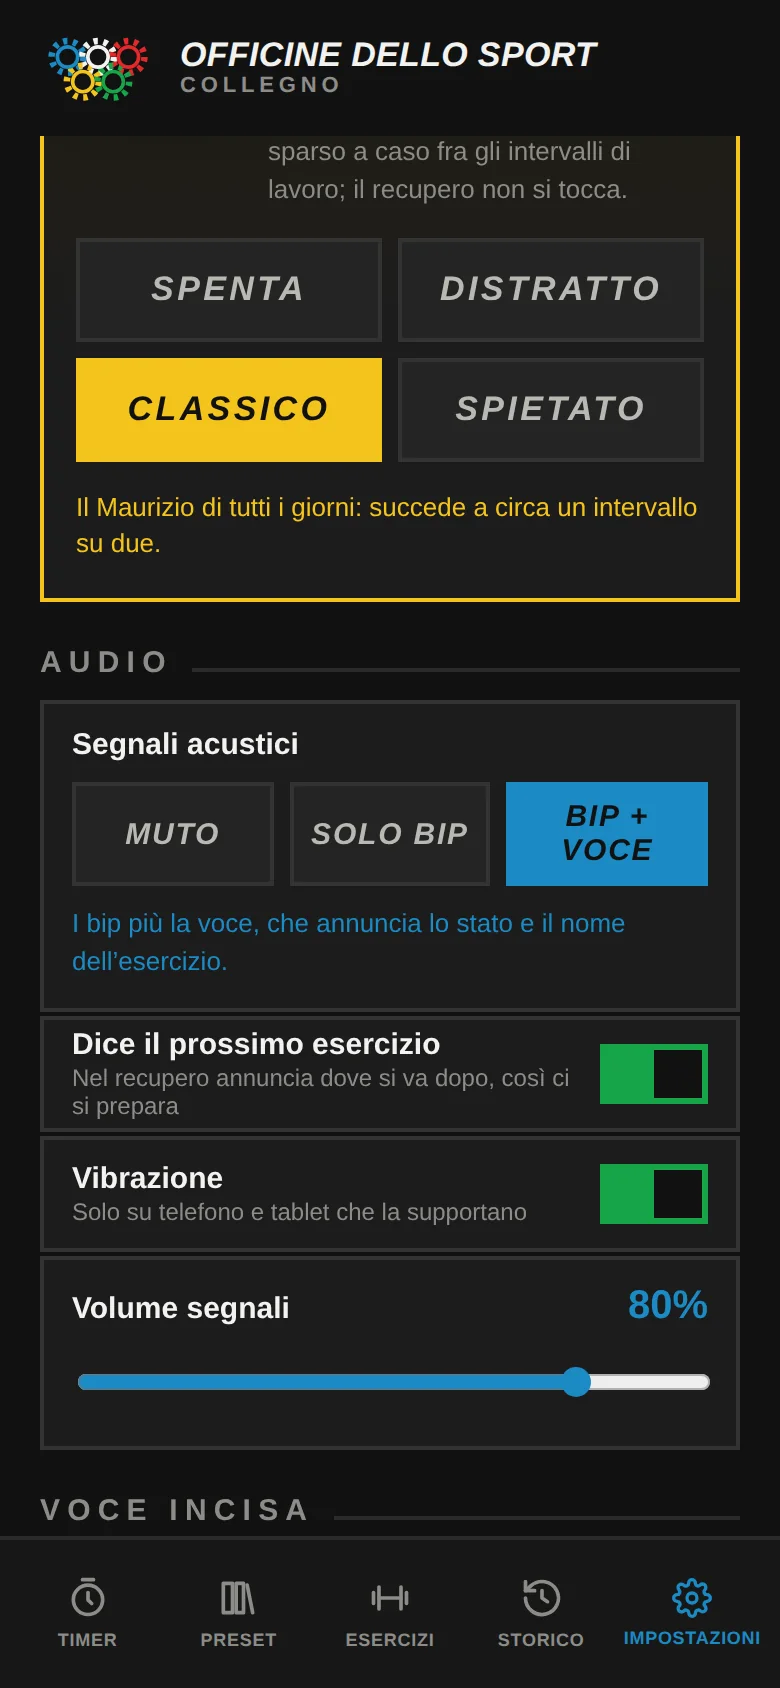
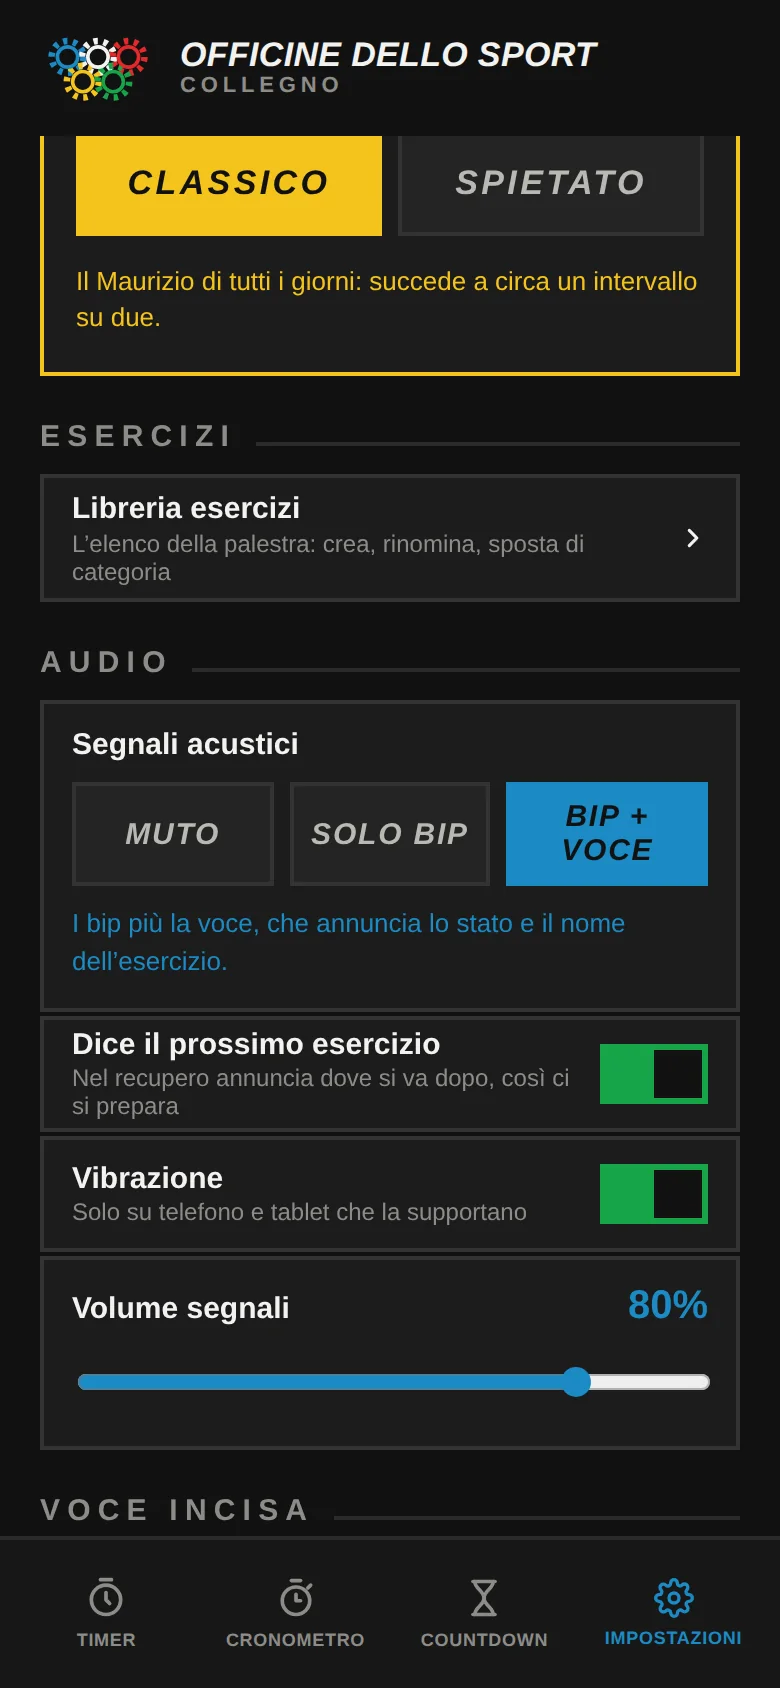
Riallinea la guida alle quattro schede
La ristrutturazione della barra ha reso falsa metà della guida: parlava di
cinque schede, di una scheda PRESET, di una scheda ESERCIZI e di una
striscia «al volo» in cima alla lista dei timer. Riscritte le parti che non
erano più vere e rifatti gli undici scatti che mostravano la barra vecchia.

Cosa dice adesso: quattro schede e perché sono quattro; le tre cose che non
sono schede di proposito — gli schemi come primo passo del nuovo timer, la
libreria esercizi e lo storico nelle impostazioni; il cronometro e il
countdown come schede separate, con il fatto che continuano a contare
mentre guardi un'altra scheda; e che la guida stessa è dentro l'app.

Corretto anche un difetto della guida trovato misurando: sul telefono la
pagina scorreva di lato di 405 px. La colonna della griglia si allargava
fino alla larghezza minima della tabella più larga — 520 px — e si portava
dietro tutto, indice compreso. Con `minmax(0, 1fr)` le tabelle scorrono nel
loro riquadro e il resto resta dentro lo schermo: verificato, il documento
è largo esattamente quanto la finestra.

Claude-Session: https://claude.ai/code/session_01JooCXtaGijCA4t1W81KEnw

diff --git a/public/guida.html b/public/guida.html
@@ -95,6 +95,11 @@
 
   .corpo {
     display: grid;
+    /* `minmax(0, …)` e non `1fr`: senza, la colonna si allarga fino alla
+       larghezza minima della tabella più larga — 520 px — e si porta dietro
+       tutta la pagina, indice compreso. Con questo le tabelle scorrono nel
+       loro riquadro e il resto resta dentro lo schermo. */
+    grid-template-columns: minmax(0, 1fr);
     gap: 48px;
     align-items: start;
   }
@@ -323,6 +328,8 @@
   }
 </style>
 
+</head>
+<body>
 <style>
   .ritorno {
     position: sticky; top: 0; z-index: 10;
@@ -336,8 +343,6 @@
   .ritorno:hover { color: #1b8ac4; }
   @media print { .ritorno { display: none; } }
 </style>
-</head>
-<body>
 <a class="ritorno" href="./">‹ TORNA ALL'APP</a>
 <div class="guscio">
 
@@ -368,8 +373,8 @@
       <div class="indice-titolo">INDICE</div>
       <ol>
         <li><a href="#cose">Cos'è e dove vive</a></li>
-        <li><a href="#schede">Le cinque schede</a></li>
-        <li><a href="#alvolo-tools">Cronometro e minuti al volo</a></li>
+        <li><a href="#schede">Le quattro schede</a></li>
+        <li><a href="#alvolo-tools">Cronometro e countdown</a></li>
         <li><a href="#schemi">I cinque schemi</a></li>
         <li><a href="#editor">Costruire un timer</a></li>
         <li><a href="#esercizi">La libreria esercizi</a></li>
@@ -415,6 +420,10 @@
             di numeri in più — e la prima apertura mette in cache tutto il necessario: da lì funziona
             anche con il telefono in modalità aereo.
           </p>
+          <p>
+            <strong>Anche questa guida è dentro l'app</strong>, in fondo alle impostazioni: si apre senza rete
+            e vale per chiunque abbia l'indirizzo, senza dover mandare niente.
+          </p>
         </div>
 
         <p>
@@ -430,23 +439,18 @@
       <figcaption>La scheda TIMER appena installata, con i sei timer già pronti.</figcaption>
     </figure>
     <figure>
-      <img src="guida/preset.webp" alt="La scheda PRESET con i sei schemi classici" width="820" height="1688" loading="lazy">
-      <figcaption>PRESET: sei schemi classici che aprono l’editor con i valori già dentro.</figcaption>
+      <img src="guida/scheda-aperta.webp" alt="Una scheda timer aperta con MODIFICA, DUPLICA, INVIA e il cestino" width="820" height="1688" loading="lazy">
+      <figcaption>Toccando una scheda compaiono le sue azioni: modifica, duplica, invia, elimina.</figcaption>
     </figure>
         </div>
       </section>
 
       <section id="schede">
         <div class="occhiello">ORIENTARSI</div>
-        <h2>Le cinque schede</h2>
+        <h2>Le quattro schede</h2>
         <p>
-          In fondo allo schermo (di lato, sul computer) ci sono cinque voci. Sono tutta la navigazione
-          che l'app ha.
-        </p>
-        <p>
-          Lo <strong>storico</strong> degli allenamenti non è più una di queste: in palestra non lo guarda
-          nessuno, e quel posto serviva agli attrezzi. Continua a registrare ogni allenamento portato a
-          termine, entra nelle copie di sicurezza, e si apre da IMPOSTAZIONI in fondo.
+          In fondo allo schermo (di lato, sul computer) ci sono quattro voci. Sono tutta la navigazione
+          che l'app ha, e sono quattro perché in una lezione si entra solo lì.
         </p>
 
         <div class="tabella-scorre">
@@ -456,47 +460,60 @@
             </thead>
             <tbody>
               <tr><td class="nome-schema">TIMER</td><td>I tuoi allenamenti. Da qui si avvia, si modifica, si duplica, si manda, si elimina.</td></tr>
-              <tr><td class="nome-schema">PRESET</td><td>Sei schemi classici già impostati: Tabata, HIIT 40/20, EMOM, AMRAP, For Time, Circuito. Toccarne uno apre l'editor con i valori già dentro.</td></tr>
-              <tr><td class="nome-schema">ESERCIZI</td><td>Il catalogo della palestra: si crea, si rinomina, si sposta di categoria, si cancella.</td></tr>
-              <tr><td class="nome-schema">AL VOLO</td><td>Il cronometro e il conto alla rovescia: i due attrezzi che non chiedono di scrivere un allenamento.</td></tr>
-              <tr><td class="nome-schema">IMPOSTAZIONI</td><td>Maurizio, suoni, voce, schermo, copie di sicurezza, storico, versione, e questa guida.</td></tr>
+              <tr><td class="nome-schema">CRONOMETRO</td><td>Conta in salita, con i centesimi e i giri. Per un randori, una navetta, un test.</td></tr>
+              <tr><td class="nome-schema">COUNTDOWN</td><td>Sei durate che partono al tocco, per «novanta secondi e si riparte».</td></tr>
+              <tr><td class="nome-schema">IMPOSTAZIONI</td><td>Maurizio, suoni, voce, schermo, libreria esercizi, copie di sicurezza, storico, versione, e questa guida.</td></tr>
             </tbody>
           </table>
+        </div>
+
+        <h3>Le tre cose che non sono schede</h3>
+        <p>
+          Tre parti dell'app non stanno nella barra, di proposito: sono cose che si fanno una volta ogni
+          tanto, non a lezione iniziata.
+        </p>
+        <ul>
+          <li><strong>Gli schemi</strong> (Tabata, HIIT, EMOM, AMRAP, For Time, Circuito) non sono una destinazione ma un punto di partenza: compaiono come prima schermata dopo <span class="tasto">+ NUOVO TIMER</span>, che è l'unico momento in cui servono.</li>
+          <li><strong>La libreria esercizi</strong> è la prima voce delle impostazioni: il catalogo si cura ogni tanto, non a ogni lezione.</li>
+          <li><strong>Lo storico</strong> è in fondo alle impostazioni. Continua a registrare ogni allenamento portato a termine e a viaggiare nelle copie di sicurezza, ma non occupa un posto in barra.</li>
+        </ul>
+
+        <div class="scatti">
+    <figure>
+      <img src="guida/impostazioni-dati.webp" alt="Le voci in fondo alle impostazioni: guida, storico, copie di sicurezza" width="820" height="1688" loading="lazy">
+      <figcaption>In fondo alle impostazioni: le copie di sicurezza, questa guida e lo storico.</figcaption>
+    </figure>
         </div>
       </section>
 
       <section id="alvolo-tools">
         <div class="occhiello">SENZA SCRIVERE NIENTE</div>
-        <h2>Cronometro e minuti al volo</h2>
+        <h2>Cronometro e countdown</h2>
         <p class="guida-intro">
-          La quarta scheda della barra. Due attrezzi che non chiedono di costruire un allenamento: si usano
-          a lezione iniziata, con venti persone ferme che aspettano, e lì nessuno si mette a compilare un
+          Due schede della barra, una per attrezzo. Non chiedono di costruire un allenamento: si usano a
+          lezione iniziata, con venti persone ferme che aspettano, e lì nessuno si mette a compilare un
           editor.
         </p>
 
-        <h3>I minuti al volo</h3>
+        <h3>Countdown</h3>
         <p>
           Sei durate — <strong>30″, 45″, 1′, 1′30, 2′, 3′</strong> — che partono al tocco. È la risposta a
           «novanta secondi e si riparte», che prima costringeva a creare e salvare un timer apposta.
         </p>
         <ul>
-          <li>La stessa fila di durate resta dentro la schermata: <strong>si cambia idea a conto già iniziato</strong>, perché la sala risponde meglio o peggio del previsto.</li>
+          <li>La freccia in alto a sinistra torna alle durate senza chiudere niente: <strong>si cambia idea a conto già iniziato</strong>, perché la sala risponde meglio o peggio del previsto.</li>
           <li>C'è il <span class="tasto">+30″</span> del timer grande, e <span class="tasto">RIFAI</span> per ripartire da capo.</li>
           <li>Allo zero la cornice passa da verde a <strong>rosso</strong>, con la scritta TEMPO e il segnale di fine: si vede da tutta la sala anche senza sentire niente.</li>
         </ul>
 
         <div class="scatti">
     <figure>
-      <img src="guida/alvolo-scheda.webp" alt="La scheda AL VOLO con le sei durate e il tasto del cronometro" width="820" height="1688" loading="lazy">
-      <figcaption>La scheda AL VOLO: sei durate da premere senza guardare, e il cronometro sotto.</figcaption>
+      <img src="guida/countdown-durate.webp" alt="La scheda COUNTDOWN con le sei durate" width="820" height="1688" loading="lazy">
+      <figcaption>Sei durate da premere senza guardare.</figcaption>
     </figure>
     <figure>
-      <img src="guida/al-volo.webp" alt="Conto alla rovescia al volo in corso" width="820" height="1688" loading="lazy">
-      <figcaption>Il conto in corsa. Sotto, la fila delle durate per cambiare idea senza uscire.</figcaption>
-    </figure>
-    <figure>
-      <img src="guida/al-volo-tempo.webp" alt="Conto alla rovescia arrivato a zero, cornice rossa e scritta TEMPO" width="820" height="1688" loading="lazy">
-      <figcaption>Allo zero: cornice rossa, TEMPO, e il tasto diventa RIFAI.</figcaption>
+      <img src="guida/countdown.webp" alt="Conto alla rovescia in corso, cornice verde" width="820" height="1688" loading="lazy">
+      <figcaption>Il conto in corsa: la freccia in alto torna alle durate, RIFAI ricomincia.</figcaption>
     </figure>
         </div>
 
@@ -519,11 +536,17 @@
     </figure>
         </div>
 
-        <div class="scheda">
+        <div class="scheda primo-passo">
+          <span class="etichetta-scheda">CONTINUANO A CONTARE</span>
           <p>
-            In tutti e due il tempo arriva dall'orologio e non da un contatore aumentato a ogni battito: è la
-            stessa regola del timer degli allenamenti, e serve perché un telefono che mette in pausa la pagina
-            non faccia restare indietro il conto.
+            Tutti e due <strong>non si fermano quando guardi un'altra scheda</strong>. Avvii un minuto e mezzo,
+            passi ai timer per controllare il prossimo blocco, e il conto continua: quando scade suona anche se
+            in quel momento sei altrove. È il motivo per cui lo avvii.
+          </p>
+          <p>
+            E il tempo arriva sempre dall'orologio, mai da un contatore aumentato a ogni battito: la stessa
+            regola del timer degli allenamenti, perché un telefono che mette in pausa la pagina non faccia
+            restare indietro il conto.
           </p>
         </div>
       </section>
@@ -590,8 +613,11 @@
         <div class="occhiello">COSTRUIRE</div>
         <h2>Costruire un timer</h2>
         <p class="guida-intro">
-          Dalla scheda TIMER, <span class="tasto">+</span> crea un allenamento nuovo; <span class="tasto">MODIFICA</span>
-          apre uno esistente. Da PRESET si parte invece da uno schema già impostato, che poi si cambia come si vuole.
+          Dalla scheda TIMER, <span class="tasto">+ NUOVO TIMER</span> apre prima la scelta dello schema — Tabata,
+          HIIT 40/20, EMOM, AMRAP, For Time, Circuito, ognuno con il suo disegnino — e poi l'editor con i valori
+          già dentro. <span class="tasto">MODIFICA</span> su una scheda apre direttamente l'editor.
+          Lo schema si sceglie lì e dentro l'editor si legge soltanto: era un bivio offerto due volte, e la
+          seconda volta non serviva a nessuno.
         </p>
 
         <h3>I parametri, con i loro limiti</h3>
@@ -649,6 +675,10 @@
 
         <div class="scatti">
     <figure>
+      <img src="guida/schema.webp" alt="La scelta dello schema dopo NUOVO TIMER" width="820" height="1688" loading="lazy">
+      <figcaption>Dopo NUOVO TIMER: sei schemi, ognuno con il disegno di come scandisce il tempo.</figcaption>
+    </figure>
+    <figure>
       <img src="guida/editor.webp" alt="L’editor di un circuito con i parametri" width="820" height="1688" loading="lazy">
       <figcaption>L’editor mostra solo i parametri che quello schema usa davvero.</figcaption>
     </figure>
@@ -663,8 +693,8 @@
         <div class="occhiello">IL CATALOGO</div>
         <h2>La libreria esercizi</h2>
         <p class="guida-intro">
-          La scheda ESERCIZI è dove si cura l'elenco della palestra, una volta, invece di rincorrerlo
-          mentre si scrive un timer.
+          IMPOSTAZIONI → <strong>Libreria esercizi</strong>: l'elenco della palestra si cura lì, una volta,
+          invece di rincorrerlo mentre si scrive un timer.
         </p>
         <p>
           Gli esercizi sono raggruppati in sei categorie — <strong>Judo, A corpo libero, Attrezzi, Core, Cardio,
@@ -994,10 +1024,6 @@
     <figure>
       <img src="guida/invia.webp" alt="La schermata INVIA con il QR code e il link" width="820" height="1688" loading="lazy">
       <figcaption>INVIA: il QR si inquadra con la fotocamera di sistema, senza installare niente.</figcaption>
-    </figure>
-    <figure>
-      <img src="guida/scheda-aperta.webp" alt="Una scheda timer aperta con MODIFICA, DUPLICA, INVIA e il cestino" width="820" height="1688" loading="lazy">
-      <figcaption>Le azioni compaiono toccando la scheda: modifica, duplica, invia, elimina.</figcaption>
     </figure>
         </div>
 
